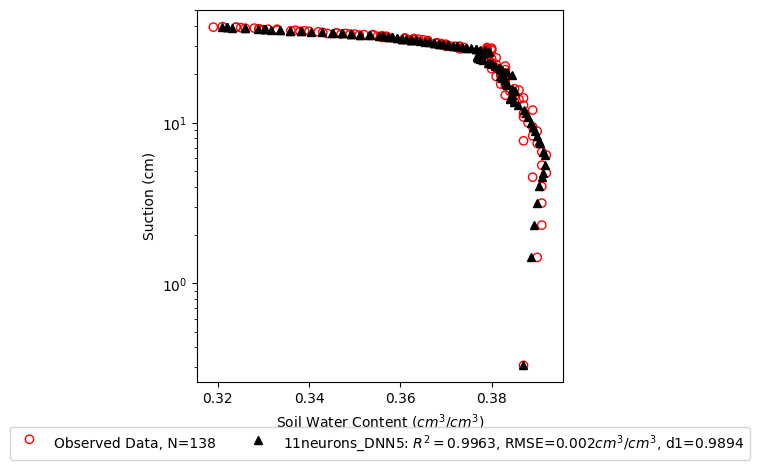
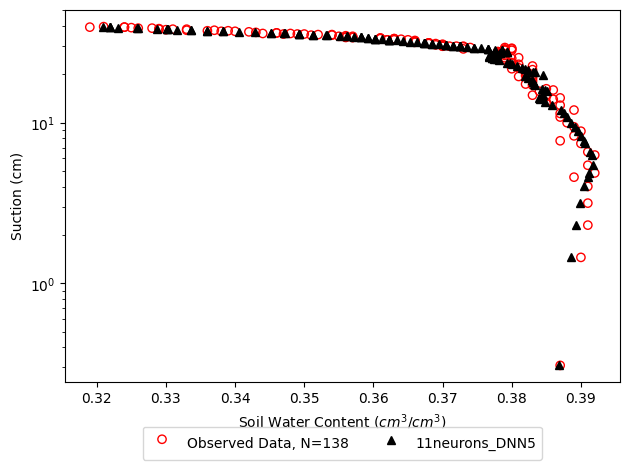
removed extra values from swrc graphs

diff --git a/DNN_Drying_WaterContYAxis.py b/DNN_Drying_WaterContYAxis.py
@@ -104,7 +104,7 @@ def Deep_NN_5HiddenLayers(x, weights5, biases5):
 # costs = {3: [], 5: [], 7: [], 9: [], 11: []}
 # timeToRun = {3: [None, None], 5: [None, None], 7: [None, None], 9: [None, None], 11: [None, None]}
 # 9. Specify the number of neurons per layer i.e. neurons in input layer, hidden layer(s), and output layer
-num_neurons = 7
+num_neurons = 11
 start = datetime.now()
 dim_in = 1
 dim1 = num_neurons
@@ -229,7 +229,7 @@ ax = plt.subplot(111)
 
 plt.scatter(soilData.iloc[:, 0:1].values, soilData.iloc[:, 2:3].values, label='Observed Data, '+'N='+str(n_samples), facecolors='none', edgecolors='r')
 
-plt.semilogy(predicted_DNN5_Y, soilData.iloc[:, 2:3].values, 'k^' ,label=f'{num_neurons}neurons_DNN5: $R^2=$' + str(round(np.sqrt(r2_score(soilData.iloc[:, 0:1].values, predicted_DNN5_Y)),4))+ ', RMSE='+str(round(np.sqrt(mean_squared_error(soilData.iloc[:, 0:1].values, predicted_DNN5_Y)),3))  + '$cm^3$/$cm^3$'+', d1='+str(round(d1_DNN5,4)))
+plt.semilogy(predicted_DNN5_Y, soilData.iloc[:, 2:3].values, 'k^' ,label=f'{num_neurons}neurons_DNN5')
 
 plt.xlabel('Soil Water Content ($cm^3$/$cm^3$)')
 plt.ylabel('Suction (cm)')
